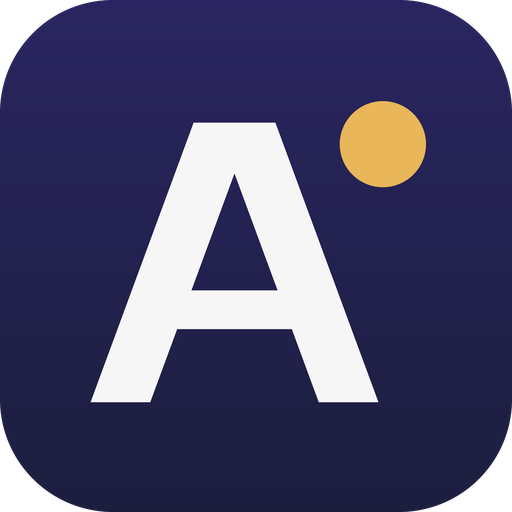
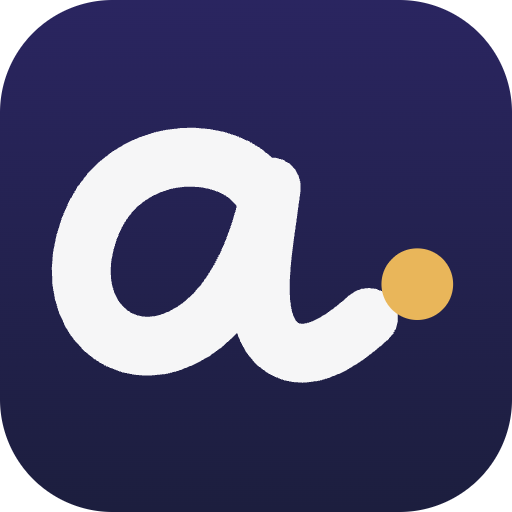
web: the signature mark
Albashi's mark is one handwritten stroke that writes an "a" and runs out
into a gold dot: the owner signs the payslip, the payment lands (gold means a
credit across the page). Concepts were explored with GPT Image 2 on
Higgsfield, then the chosen one was redrawn by hand as vector at an 11.5
stroke so it still reads at 16 px. It replaces the interim Alert A as
favicon (16-64 px), icon, touch icon, status-bar brand, the top alert's app
icon and in the link preview.

Gate: lint (0 warnings), typecheck, test (8 pass) and build pass.

Changed region(s): [[0.0938, 0.25, 0.9062, 0.8125], [0.6562, 0.1875, 0.8438, 0.375], [0.375, 0.2188, 0.5625, 0.3125]]

diff --git a/apps/web/app/globals.css b/apps/web/app/globals.css
@@ -72,7 +72,7 @@ a { color: inherit; text-decoration: none; }
   white-space: nowrap;
 }
 .brand { font-size: calc(38 * var(--u)); font-weight: 600; letter-spacing: 0.04em; gap: calc(14 * var(--u)); }
-.brand-mark { width: calc(44 * var(--u)); height: calc(44 * var(--u)); flex: none; }
+.brand-mark { width: calc(62 * var(--u)); height: calc(62 * var(--u)); flex: none; margin: 0 calc(-4 * var(--u)) 0 calc(-8 * var(--u)); }
 .network { font-size: calc(30 * var(--u)); gap: calc(16 * var(--u)); justify-content: flex-start; }
 .celo-mark { width: calc(30 * var(--u)); height: calc(30 * var(--u)); flex: none; }
 .nav { font-size: calc(30 * var(--u)); justify-content: space-between; }
@@ -143,7 +143,7 @@ a.card-in:focus-visible { outline: calc(4 * var(--u)) solid #fff; outline-offset
   background: linear-gradient(160deg, #2a2560, var(--navy));
   color: var(--ink-on-photo);
 }
-.app-mark { width: 80%; height: 80%; }
+.app-mark { width: 94%; height: 94%; }
 .credit-icon, .declined-icon { display: grid; place-items: center; border-radius: 50%; }
 .credit-icon {
   background: radial-gradient(circle at 40% 35%, var(--credit-hi), var(--credit-lo));
@@ -256,7 +256,7 @@ a.card-in:focus-visible { outline: calc(4 * var(--u)) solid #fff; outline-offset
   .card-icon { width: calc(36 * var(--u)); height: calc(36 * var(--u)); margin-top: calc(2 * var(--u)); }
   .app-icon { border-radius: calc(9 * var(--u)); }
   .brand { gap: calc(6 * var(--u)); }
-  .brand-mark { width: calc(18 * var(--u)); height: calc(18 * var(--u)); }
+  .brand-mark { width: calc(25 * var(--u)); height: calc(25 * var(--u)); margin: 0 calc(-2 * var(--u)) 0 calc(-3 * var(--u)); }
   .credit-icon { box-shadow: inset 0 0 0 calc(2 * var(--u)) #9a5f17; }
   .declined-icon { border-width: calc(1.5 * var(--u)); }
   .card-text { gap: calc(3 * var(--u)); }

diff --git a/apps/web/app/mark.tsx b/apps/web/app/mark.tsx
@@ -1,14 +1,20 @@
-// Albashi's mark, "Alert A": a geometric A cut flat at apex and feet, a low heavy crossbar, and a gold dot,
-// the lock-screen badge for a payment that just landed (gold means a credit, as everywhere on the page).
-// Geometry is shared with app/icon.svg and the generated icons; the legs are separate paths because they are
-// mirror images, and one path would cancel their overlap at the apex.
-export default function AlbashiMark({ className, letter = 'currentColor' }: { className?: string; letter?: string }) {
+// Albashi's mark: one handwritten stroke writes an "a" and runs out into a gold dot. You sign the payslip;
+// the payment lands (gold means a credit, as everywhere on the page). Explored with GPT Image 2 on Higgsfield
+// (internal/design/logo/), then redrawn here as vector. app/icon.svg and the generated icons use the same path.
+export default function AlbashiMark({ className }: { className?: string }) {
   return (
     <svg viewBox="0 0 100 100" className={className} aria-hidden="true">
-      <path fill={letter} d="M11.55 84 L35.49 19 L49.35 19 L25.4 84 Z" />
-      <path fill={letter} d="M64.6 84 L40.65 19 L54.51 19 L78.45 84 Z" />
-      <rect x="27" y="58" width="36" height="9" fill={letter} />
-      <circle cx="79.5" cy="24" r="10" fill="var(--credit-hi)" />
+      <g transform="translate(-7 -4.5)">
+        <path
+          d="M59.2 44 C55 32 31 31 24.5 49 C18.5 65 30 76.5 42.5 70.5 C52 66 57.5 54 60 41 C58.5 53 55.5 66 61 71.5 C66.5 76.5 74 71 79 66.5"
+          fill="none"
+          stroke="currentColor"
+          strokeWidth="11.5"
+          strokeLinecap="round"
+          strokeLinejoin="round"
+        />
+        <circle cx="88.5" cy="60" r="7" fill="var(--credit-hi)" />
+      </g>
     </svg>
   );
 }
